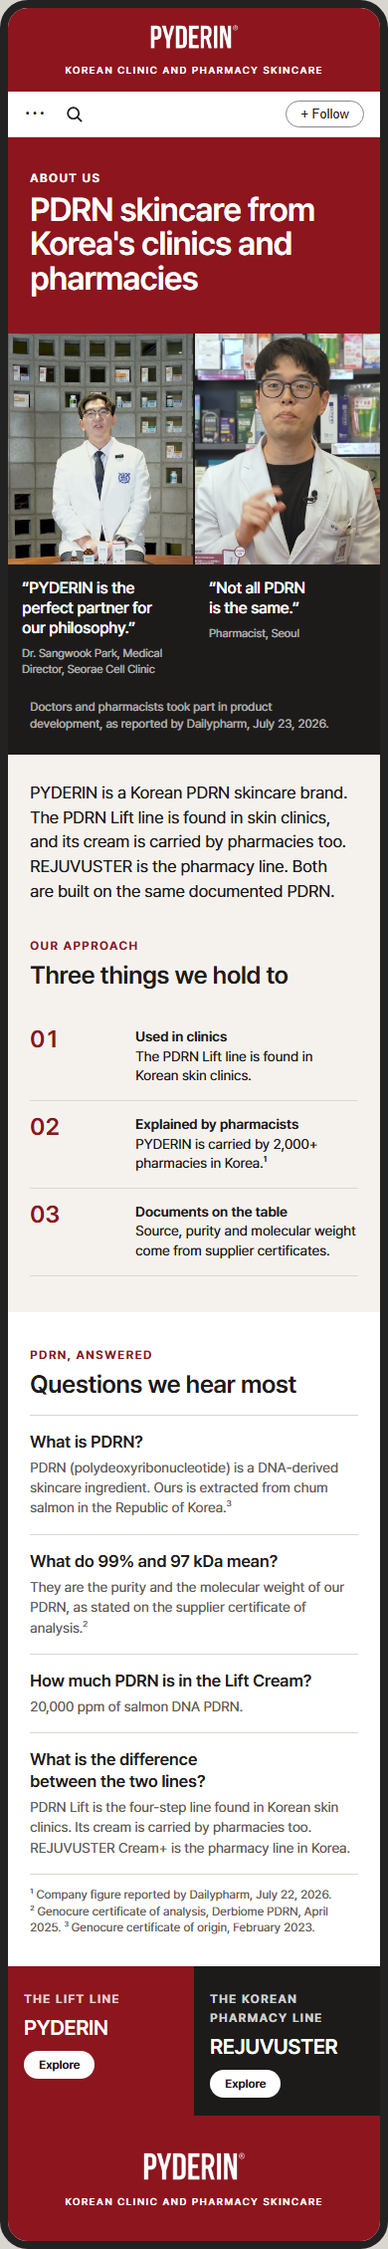
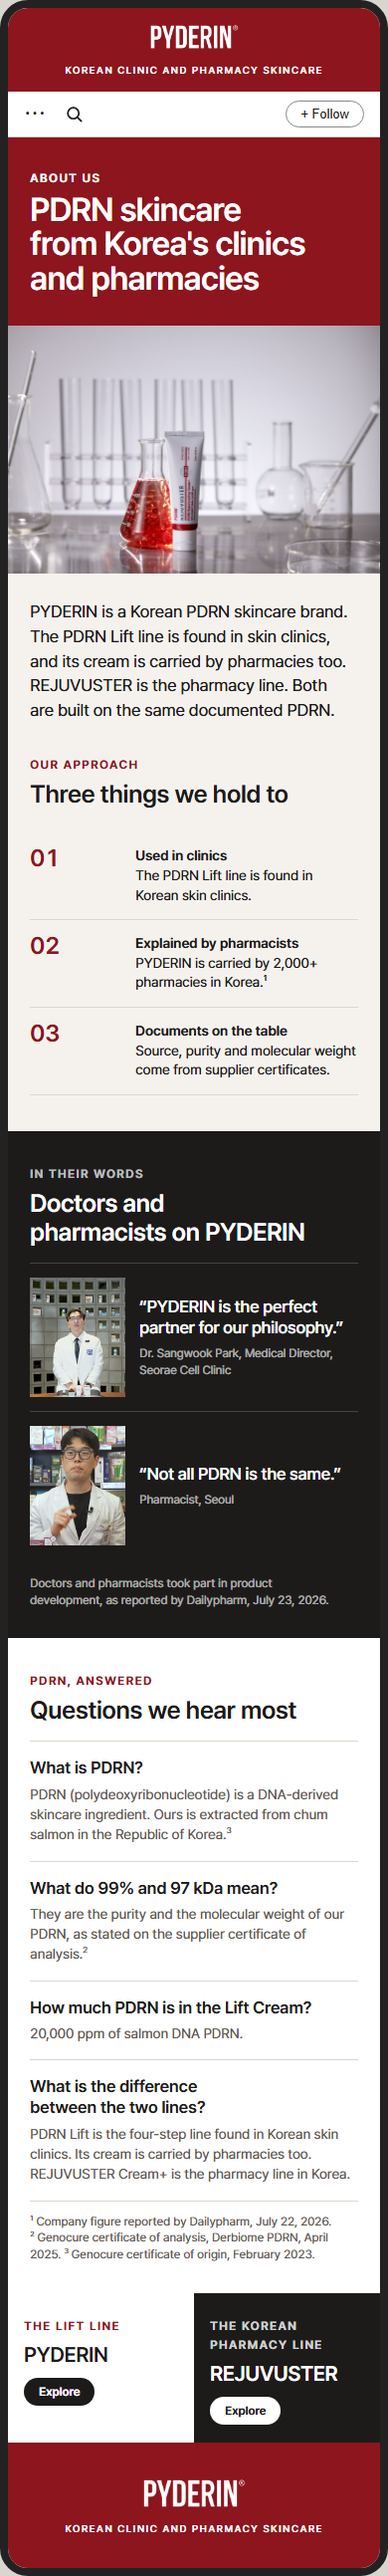
ABOUT US 첫 화면 연구실 컷, 끝 화면 위 칸 색 분리

diff --git a/review/index.html b/review/index.html
@@ -127,21 +127,22 @@
 </table></div></div>
 <div class="blk"><div><h2>14. ABOUT US 페이지</h2><img src="sec/s14.png" alt=""></div><div class="scroll"><table><tr><th>번호</th><th>위치</th><th>국문 원문</th><th>영문 (가안)</th><th>근거·출처</th><th>확인 요청 사항</th><th>상품기획팀 확인</th><th>해외영업팀 영문 검수</th></tr>
 <tr><td>14-1</td><td class="pos">꼬리표 · 제목</td><td class="ko">브랜드 소개 · 한국 병의원과 약국에서 온 PDRN 스킨케어</td><td class="en">ABOUT US · PDRN skincare from Korea&#x27;s clinics and pharmacies</td><td class="src">소개서 병의원·약국 라인</td><td class="ask"></td><td class="box"></td><td class="box"></td></tr>
-<tr><td>14-2</td><td class="pos">소개 글</td><td class="ko">피더린은 한국의 PDRN 스킨케어 브랜드입니다. PDRN 리프트 라인은 피부과·의원에서 만날 수 있고, 크림은 약국에서도 취급합니다. 리쥬부스터는 약국 라인입니다. 두 라인 모두 같은 서류로 확인된 PDRN을 씁니다.</td><td class="en">PYDERIN is a Korean PDRN skincare brand. The PDRN Lift line is found in skin clinics, and its cream is carried by pharmacies too. REJUVUSTER is the pharmacy line. Both are built on the same documented PDRN.</td><td class="src">소개서, 원료사 서류</td><td class="ask">두 라인이 같은 PDRN 원료를 쓰는지</td><td class="box"></td><td class="box"></td></tr>
-<tr><td>14-3</td><td class="pos">소제목</td><td class="ko">우리의 방식 · 지키는 세 가지</td><td class="en">OUR APPROACH · Three things we hold to</td><td class="src">리쥬올 About 페이지 방식</td><td class="ask"></td><td class="box"></td><td class="box"></td></tr>
-<tr><td>14-4</td><td class="pos">01</td><td class="ko">병의원에서 씁니다 — PDRN 리프트 라인은 한국 피부과·의원에서 만날 수 있습니다.</td><td class="en">Used in clinics — The PDRN Lift line is found in Korean skin clinics.</td><td class="src">소개서 5쪽</td><td class="ask">2-3번과 같은 확인</td><td class="box"></td><td class="box"></td></tr>
-<tr><td>14-5</td><td class="pos">02</td><td class="ko">약사가 설명합니다 — 피더린은 한국 약국 2,000곳 이상에서 취급합니다.</td><td class="en">Explained by pharmacists — PYDERIN is carried by 2,000+ pharmacies in Korea.</td><td class="src">데일리팜 2026-07-22</td><td class="ask">메인 4번 칸과 같은 표기</td><td class="box"></td><td class="box"></td></tr>
-<tr><td>14-6</td><td class="pos">03</td><td class="ko">서류를 공개합니다 — 출처, 순도, 분자량은 원료사 증명서에 따릅니다.</td><td class="en">Documents on the table — Source, purity and molecular weight come from supplier certificates.</td><td class="src">제노큐어 서류</td><td class="ask"></td><td class="box"></td><td class="box"></td></tr>
-<tr><td>14-7</td><td class="pos">소제목</td><td class="ko">그들의 말 · 의사와 약사가 말하는 피더린</td><td class="en">IN THEIR WORDS · Doctors and pharmacists on PYDERIN</td><td class="src">메디큐브 기기 페이지의 전문가 3명 방식</td><td class="ask">두 분 모두 사용 동의가 필요. 동의가 없는 분은 뺍니다</td><td class="box"></td><td class="box"></td></tr>
-<tr><td>14-8</td><td class="pos">한마디 1</td><td class="ko">&quot;피더린은 저희 철학과 가장 잘 맞는 파트너라고 생각합니다.&quot; — 박상욱 대표원장, 서래셀클리닉</td><td class="en">&quot;PYDERIN is the perfect partner for our philosophy.&quot; — Dr. Sangwook Park, Medical Director, Seorae Cell Clinic</td><td class="src">원장 인터뷰 원본 영상</td><td class="ask">4-3, 4-4번과 같은 확인</td><td class="box"></td><td class="box"></td></tr>
-<tr><td>14-9</td><td class="pos">한마디 2</td><td class="ko">&quot;다 같은 PDRN이 아닙니다.&quot; — 약사, 서울</td><td class="en">&quot;Not all PDRN is the same.&quot; — Pharmacist, Seoul</td><td class="src">별하약국 약사 인터뷰</td><td class="ask">약사 이름 표기 여부, 사용 동의</td><td class="box"></td><td class="box"></td></tr>
-<tr><td>14-10</td><td class="pos">각주</td><td class="ko">의사와 약사가 제품 개발 과정에 참여했습니다(데일리팜 2026년 7월 23일 보도).</td><td class="en">Doctors and pharmacists took part in product development, as reported by Dailypharm, July 23, 2026.</td><td class="src">데일리팜 2026-07-23 기사</td><td class="ask">참여 범위(어떤 제품, 어떤 역할)와 이 표현을 써도 되는지</td><td class="box"></td><td class="box"></td></tr>
-<tr><td>14-11</td><td class="pos">소제목</td><td class="ko">PDRN 묻고 답하기 · 자주 듣는 질문</td><td class="en">PDRN, ANSWERED · Questions we hear most</td><td class="src">리쥬란 PDRN 페이지의 묻고 답하기 방식</td><td class="ask"></td><td class="box"></td><td class="box"></td></tr>
-<tr><td>14-12</td><td class="pos">질문 1</td><td class="ko">PDRN이 무엇인가요? — PDRN(폴리데옥시리보뉴클레오타이드)은 DNA에서 얻는 스킨케어 성분입니다. 피더린의 PDRN은 대한민국 연어에서 추출합니다.</td><td class="en">What is PDRN? — PDRN (polydeoxyribonucleotide) is a DNA-derived skincare ingredient. Ours is extracted from chum salmon in the Republic of Korea.</td><td class="src">제노큐어 원산지 증명서</td><td class="ask">성분 설명 표현이 맞는지</td><td class="box"></td><td class="box"></td></tr>
-<tr><td>14-13</td><td class="pos">질문 2</td><td class="ko">99%와 97kDa는 무슨 뜻인가요? — 원료사 시험성적서에 적힌 우리 PDRN의 순도와 분자량입니다.</td><td class="en">What do 99% and 97 kDa mean? — They are the purity and the molecular weight of our PDRN, as stated on the supplier certificate of analysis.</td><td class="src">제노큐어 시험성적서</td><td class="ask">7-2, 7-3번과 같은 확인</td><td class="box"></td><td class="box"></td></tr>
-<tr><td>14-14</td><td class="pos">질문 3</td><td class="ko">리프트 크림에는 PDRN이 얼마나 들어 있나요? — 연어 DNA PDRN 20,000ppm.</td><td class="en">How much PDRN is in the Lift Cream? — 20,000 ppm of salmon DNA PDRN.</td><td class="src">미국 상품 페이지 제목</td><td class="ask">2-4번과 같은 확인. 다른 브랜드와 비교하지 않고 숫자만 적었습니다</td><td class="box"></td><td class="box"></td></tr>
-<tr><td>14-15</td><td class="pos">질문 4</td><td class="ko">두 라인은 무엇이 다른가요? — PDRN 리프트는 한국 피부과·의원에서 만나는 네 단계 라인이고, 크림은 약국에서도 취급합니다. 리쥬부스터 크림+는 한국의 약국 라인입니다.</td><td class="en">What is the difference between the two lines? — PDRN Lift is the four-step line found in Korean skin clinics. Its cream is carried by pharmacies too. REJUVUSTER Cream+ is the pharmacy line in Korea.</td><td class="src">소개서</td><td class="ask">12월 추가 리스팅 뒤 바뀔 내용인지</td><td class="box"></td><td class="box"></td></tr>
-<tr><td>14-16</td><td class="pos">아래 이동 칸</td><td class="ko">리프트 라인 피더린 / 한국 약국 라인 리쥬부스터 · 보기</td><td class="en">THE LIFT LINE PYDERIN / THE KOREAN PHARMACY LINE REJUVUSTER · Explore</td><td class="src"></td><td class="ask"></td><td class="box"></td><td class="box"></td></tr>
+<tr><td>14-2</td><td class="pos">첫 화면 사진</td><td class="ko">(연구실 연출 컷 — 유리 기구 사이의 리쥬부스터)</td><td class="en">(photo)</td><td class="src">NAS 디자인팀 제품 촬영본, 사장님 선택(11/11)</td><td class="ask"></td><td class="box"></td><td class="box"></td></tr>
+<tr><td>14-3</td><td class="pos">소개 글</td><td class="ko">피더린은 한국의 PDRN 스킨케어 브랜드입니다. PDRN 리프트 라인은 피부과·의원에서 만날 수 있고, 크림은 약국에서도 취급합니다. 리쥬부스터는 약국 라인입니다. 두 라인 모두 같은 서류로 확인된 PDRN을 씁니다.</td><td class="en">PYDERIN is a Korean PDRN skincare brand. The PDRN Lift line is found in skin clinics, and its cream is carried by pharmacies too. REJUVUSTER is the pharmacy line. Both are built on the same documented PDRN.</td><td class="src">소개서, 원료사 서류</td><td class="ask">두 라인이 같은 PDRN 원료를 쓰는지</td><td class="box"></td><td class="box"></td></tr>
+<tr><td>14-4</td><td class="pos">소제목</td><td class="ko">우리의 방식 · 지키는 세 가지</td><td class="en">OUR APPROACH · Three things we hold to</td><td class="src">리쥬올 About 페이지 방식</td><td class="ask"></td><td class="box"></td><td class="box"></td></tr>
+<tr><td>14-5</td><td class="pos">01</td><td class="ko">병의원에서 씁니다 — PDRN 리프트 라인은 한국 피부과·의원에서 만날 수 있습니다.</td><td class="en">Used in clinics — The PDRN Lift line is found in Korean skin clinics.</td><td class="src">소개서 5쪽</td><td class="ask">2-3번과 같은 확인</td><td class="box"></td><td class="box"></td></tr>
+<tr><td>14-6</td><td class="pos">02</td><td class="ko">약사가 설명합니다 — 피더린은 한국 약국 2,000곳 이상에서 취급합니다.</td><td class="en">Explained by pharmacists — PYDERIN is carried by 2,000+ pharmacies in Korea.</td><td class="src">데일리팜 2026-07-22</td><td class="ask">메인 4번 칸과 같은 표기</td><td class="box"></td><td class="box"></td></tr>
+<tr><td>14-7</td><td class="pos">03</td><td class="ko">서류를 공개합니다 — 출처, 순도, 분자량은 원료사 증명서에 따릅니다.</td><td class="en">Documents on the table — Source, purity and molecular weight come from supplier certificates.</td><td class="src">제노큐어 서류</td><td class="ask"></td><td class="box"></td><td class="box"></td></tr>
+<tr><td>14-8</td><td class="pos">소제목</td><td class="ko">그들의 말 · 의사와 약사가 말하는 피더린</td><td class="en">IN THEIR WORDS · Doctors and pharmacists on PYDERIN</td><td class="src">메디큐브 기기 페이지의 전문가 3명 방식</td><td class="ask">두 분 모두 사용 동의가 필요. 동의가 없는 분은 뺍니다</td><td class="box"></td><td class="box"></td></tr>
+<tr><td>14-9</td><td class="pos">한마디 1</td><td class="ko">&quot;피더린은 저희 철학과 가장 잘 맞는 파트너라고 생각합니다.&quot; — 박상욱 대표원장, 서래셀클리닉</td><td class="en">&quot;PYDERIN is the perfect partner for our philosophy.&quot; — Dr. Sangwook Park, Medical Director, Seorae Cell Clinic</td><td class="src">원장 인터뷰 원본 영상</td><td class="ask">4-3, 4-4번과 같은 확인</td><td class="box"></td><td class="box"></td></tr>
+<tr><td>14-10</td><td class="pos">한마디 2</td><td class="ko">&quot;다 같은 PDRN이 아닙니다.&quot; — 약사, 서울</td><td class="en">&quot;Not all PDRN is the same.&quot; — Pharmacist, Seoul</td><td class="src">별하약국 약사 인터뷰</td><td class="ask">약사 이름 표기 여부, 사용 동의</td><td class="box"></td><td class="box"></td></tr>
+<tr><td>14-11</td><td class="pos">각주</td><td class="ko">의사와 약사가 제품 개발 과정에 참여했습니다(데일리팜 2026년 7월 23일 보도).</td><td class="en">Doctors and pharmacists took part in product development, as reported by Dailypharm, July 23, 2026.</td><td class="src">데일리팜 2026-07-23 기사</td><td class="ask">참여 범위(어떤 제품, 어떤 역할)와 이 표현을 써도 되는지</td><td class="box"></td><td class="box"></td></tr>
+<tr><td>14-12</td><td class="pos">소제목</td><td class="ko">PDRN 묻고 답하기 · 자주 듣는 질문</td><td class="en">PDRN, ANSWERED · Questions we hear most</td><td class="src">리쥬란 PDRN 페이지의 묻고 답하기 방식</td><td class="ask"></td><td class="box"></td><td class="box"></td></tr>
+<tr><td>14-13</td><td class="pos">질문 1</td><td class="ko">PDRN이 무엇인가요? — PDRN(폴리데옥시리보뉴클레오타이드)은 DNA에서 얻는 스킨케어 성분입니다. 피더린의 PDRN은 대한민국 연어에서 추출합니다.</td><td class="en">What is PDRN? — PDRN (polydeoxyribonucleotide) is a DNA-derived skincare ingredient. Ours is extracted from chum salmon in the Republic of Korea.</td><td class="src">제노큐어 원산지 증명서</td><td class="ask">성분 설명 표현이 맞는지</td><td class="box"></td><td class="box"></td></tr>
+<tr><td>14-14</td><td class="pos">질문 2</td><td class="ko">99%와 97kDa는 무슨 뜻인가요? — 원료사 시험성적서에 적힌 우리 PDRN의 순도와 분자량입니다.</td><td class="en">What do 99% and 97 kDa mean? — They are the purity and the molecular weight of our PDRN, as stated on the supplier certificate of analysis.</td><td class="src">제노큐어 시험성적서</td><td class="ask">7-2, 7-3번과 같은 확인</td><td class="box"></td><td class="box"></td></tr>
+<tr><td>14-15</td><td class="pos">질문 3</td><td class="ko">리프트 크림에는 PDRN이 얼마나 들어 있나요? — 연어 DNA PDRN 20,000ppm.</td><td class="en">How much PDRN is in the Lift Cream? — 20,000 ppm of salmon DNA PDRN.</td><td class="src">미국 상품 페이지 제목</td><td class="ask">2-4번과 같은 확인. 다른 브랜드와 비교하지 않고 숫자만 적었습니다</td><td class="box"></td><td class="box"></td></tr>
+<tr><td>14-16</td><td class="pos">질문 4</td><td class="ko">두 라인은 무엇이 다른가요? — PDRN 리프트는 한국 피부과·의원에서 만나는 네 단계 라인이고, 크림은 약국에서도 취급합니다. 리쥬부스터 크림+는 한국의 약국 라인입니다.</td><td class="en">What is the difference between the two lines? — PDRN Lift is the four-step line found in Korean skin clinics. Its cream is carried by pharmacies too. REJUVUSTER Cream+ is the pharmacy line in Korea.</td><td class="src">소개서</td><td class="ask">12월 추가 리스팅 뒤 바뀔 내용인지</td><td class="box"></td><td class="box"></td></tr>
+<tr><td>14-17</td><td class="pos">아래 이동 칸</td><td class="ko">리프트 라인 피더린 / 한국 약국 라인 리쥬부스터 · 보기</td><td class="en">THE LIFT LINE PYDERIN / THE KOREAN PHARMACY LINE REJUVUSTER · Explore</td><td class="src"></td><td class="ask"></td><td class="box"></td><td class="box"></td></tr>
 </table></div></div>
 <div class="blk"><div><h2>영상 자막 (4번 칸 병원·약국 영상, 39초)</h2><img src="sec/video.jpg" alt=""></div><div class="scroll"><table><tr><th>번호</th><th>말하는 사람</th><th>국문 원문 (실제 발언)</th><th>영문 자막 (가안)</th><th>확인 요청 사항</th><th>상품기획팀 확인</th><th>해외영업팀 영문 검수</th></tr>
 <tr><td>V-1</td><td class="pos">원장</td><td class="ko">서울 서래셀 클리닉 대표원장 박상욱입니다.</td><td class="en">I&#x27;m Dr. Sangwook Park, Medical Director of Seorae Cell Clinic.</td><td class="ask"></td><td class="box"></td><td class="box"></td></tr>

diff --git a/index.html b/index.html
@@ -433,13 +433,10 @@
   <div class="sec feat"><img src="img/pick/p11.jpg" alt="" style="object-position:50% 15%"><div><span class="eyebrow">At the counter</span><b style="font-size:19px;font-weight:500">“When I judge absorption, I look at molecular size first.”</b><span style="font-size:12px;color:var(--mute)">Pharmacist, Seoul</span></div></div>
   <div class="sec"><div class="title" style="padding-top:30px"><span class="eyebrow">Shop the line</span><h3>REJUVUSTER</h3></div></div>
   <div class="sec az"><div class="grid"><div class="card"><img class="pk" src="img/m-rejuvuster.jpg" alt="">PYDERIN REJUVUSTER Cream+, 25 ml<br><span class="stars">★★★★★</span><span class="price">Price shown by Amazon</span><span class="buy">Add to Cart</span></div></div><div class="aznote">아마존 상품 목록 칸 — 사진·가격·별점·버튼은 아마존이 자동으로 채움</div></div>
-  <a class="xt" href="#pyderin" style="background:var(--red)"><div><span class="eyebrow">The Lift line</span><b>PYDERIN<br>PDRN Lift</b><u>Explore</u></div><img src="img/v3/lift-trio.jpg" alt="" style="object-position:55% 60%"></a>
+  <a class="xt" href="#pyderin" style="background:#fff;color:var(--ink)"><div><span class="eyebrow" style="color:var(--red);opacity:1">The Lift line</span><b>PYDERIN<br>PDRN Lift</b><u style="background:var(--ink);color:#fff">Explore</u></div><img src="img/v3/lift-trio.jpg" alt="" style="object-position:55% 60%"></a>
   <div class="sec"><div class="end"><img src="img/logo-white.png" alt="PYDERIN" style="height:30px;margin:auto"><small>Korean clinic and pharmacy skincare</small></div></div></div><div class="page" id="about">
-  <div class="sec"><div class="band" style="text-align:left;padding:34px 22px 30px"><span class="eyebrow">About us</span><h2 style="font-size:33px">PDRN skincare from Korea's clinics and pharmacies</h2></div>
-    <div class="who">
-      <div><img src="img/dr-seorae.jpg" alt="" style="object-position:50% 40%"><p><q>PYDERIN is the perfect partner for our philosophy.</q><span>Dr. Sangwook Park, Medical Director, Seorae Cell Clinic</span></p></div>
-      <div><img src="img/ph-byul.jpg" alt=""><p><q>Not all PDRN is the same.</q><span>Pharmacist, Seoul</span></p></div>
-    </div><div class="note">Doctors and pharmacists took part in product development, as reported by Dailypharm, July 23, 2026.</div></div>
+  <div class="sec"><div class="band" style="text-align:left;padding:34px 22px 30px"><span class="eyebrow">About us</span><h2 style="font-size:33px;margin-bottom:0;text-wrap:balance">PDRN skincare from Korea's clinics and pharmacies</h2></div>
+    <img src="img/v3/rj-lab-wide.jpg" alt="" style="width:100%;aspect-ratio:3/2;object-fit:cover"></div>
   <div class="sec"><p class="lead">PYDERIN is a Korean PDRN skincare brand. The PDRN Lift line is found in skin clinics, and its cream is carried by pharmacies too. REJUVUSTER is the pharmacy line. Both are built on the same documented PDRN.</p></div>
   <div class="sec"><div class="title"><span class="eyebrow">Our approach</span><h3>Three things we hold to</h3></div>
     <div class="rows3">
@@ -447,7 +444,13 @@
       <div><b>02</b><span><strong>Explained by pharmacists</strong>PYDERIN is carried by 2,000+ pharmacies in Korea.<sup>1</sup></span></div>
       <div><b>03</b><span><strong>Documents on the table</strong>Source, purity and molecular weight come from supplier certificates.</span></div>
     </div></div>
-  <div class="sec white" style="margin-top:36px;padding-bottom:30px"><div class="title"><span class="eyebrow">PDRN, answered</span><h3>Questions we hear most</h3></div>
+  <div class="sec dark" style="margin-top:36px"><div class="title"><span class="eyebrow">In their words</span><h3>Doctors and pharmacists on PYDERIN</h3></div>
+    <div class="ex">
+      <div><img src="img/dr-seorae.jpg" alt="" style="object-position:50% 40%"><p style="margin:0"><q>PYDERIN is the perfect partner for our philosophy.</q><span>Dr. Sangwook Park, Medical Director, Seorae Cell Clinic</span></p></div>
+      <div><img src="img/ph-byul.jpg" alt=""><p style="margin:0"><q>Not all PDRN is the same.</q><span>Pharmacist, Seoul</span></p></div>
+    </div>
+    <div class="note" style="padding-top:16px">Doctors and pharmacists took part in product development, as reported by Dailypharm, July 23, 2026.</div></div>
+  <div class="sec white" style="padding-bottom:30px"><div class="title"><span class="eyebrow">PDRN, answered</span><h3>Questions we hear most</h3></div>
     <div class="qa">
       <div><b>What is PDRN?</b><span>PDRN (polydeoxyribonucleotide) is a DNA-derived skincare ingredient. Ours is extracted from chum salmon in the Republic of Korea.<sup>3</sup></span></div>
       <div><b>What do 99% and 97 kDa mean?</b><span>They are the purity and the molecular weight of our PDRN, as stated on the supplier certificate of analysis.<sup>2</sup></span></div>
@@ -455,7 +458,7 @@
       <div><b>What is the difference between the two lines?</b><span>PDRN Lift is the four-step line found in Korean skin clinics. Its cream is carried by pharmacies too. REJUVUSTER Cream+ is the pharmacy line in Korea.</span></div>
     </div>
     <div class="note"><sup>1</sup> Company figure reported by Dailypharm, July 22, 2026. <sup>2</sup> Genocure certificate of analysis, Derbiome PDRN, April 2025. <sup>3</sup> Genocure certificate of origin, February 2023.</div></div>
-  <div class="pair" style="gap:0"><a href="#pyderin" style="background:var(--red);color:#fff;padding:22px 16px 24px"><span style="position:static;opacity:.8">The Lift line</span><b style="display:block;font-size:21px;font-weight:600;letter-spacing:-.02em;margin:8px 0 14px">PYDERIN</b><u style="text-decoration:none;font-size:12px;font-weight:600;background:#fff;color:var(--ink);border-radius:999px;padding:7px 15px">Explore</u></a><a href="#rejuvuster" style="background:var(--ink);color:#fff;padding:22px 16px 24px"><span style="position:static;opacity:.8">The Korean pharmacy line</span><b style="display:block;font-size:21px;font-weight:600;letter-spacing:-.02em;margin:8px 0 14px">REJUVUSTER</b><u style="text-decoration:none;font-size:12px;font-weight:600;background:#fff;color:var(--ink);border-radius:999px;padding:7px 15px">Explore</u></a></div>
+  <div class="pair" style="gap:0"><a href="#pyderin" style="background:#fff;color:var(--ink);padding:22px 16px 24px"><span style="position:static;color:var(--red)">The Lift line</span><b style="display:block;font-size:21px;font-weight:600;letter-spacing:-.02em;margin:8px 0 14px">PYDERIN</b><u style="text-decoration:none;font-size:12px;font-weight:600;background:var(--ink);color:#fff;border-radius:999px;padding:7px 15px">Explore</u></a><a href="#rejuvuster" style="background:var(--ink);color:#fff;padding:22px 16px 24px"><span style="position:static;opacity:.8">The Korean pharmacy line</span><b style="display:block;font-size:21px;font-weight:600;letter-spacing:-.02em;margin:8px 0 14px">REJUVUSTER</b><u style="text-decoration:none;font-size:12px;font-weight:600;background:#fff;color:var(--ink);border-radius:999px;padding:7px 15px">Explore</u></a></div>
   <div class="sec"><div class="end"><img src="img/logo-white.png" alt="PYDERIN" style="height:30px;margin:auto"><small>Korean clinic and pharmacy skincare</small></div></div></div>
   </div>
 </div>
